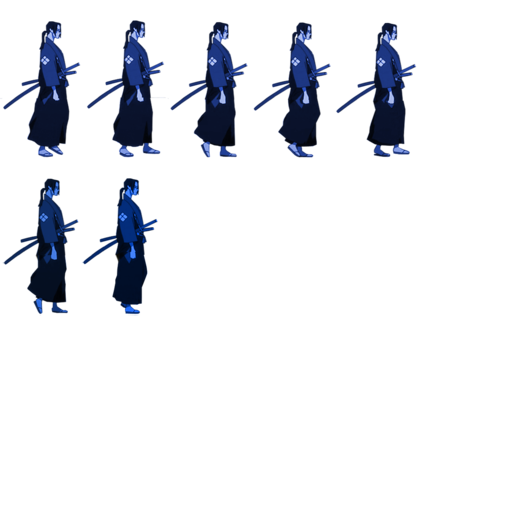
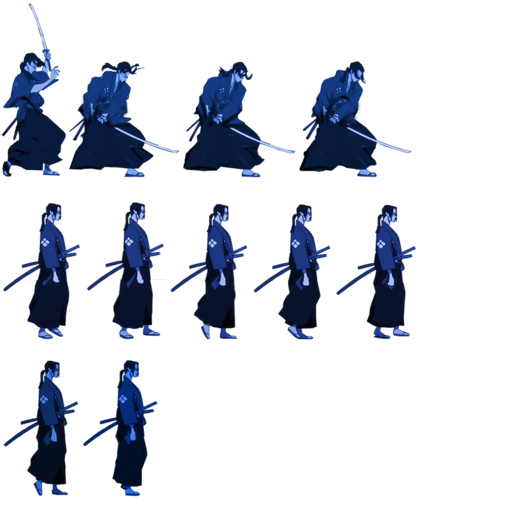
animations, still no collisions

diff --git a/LPOO2/core/src/com/mygdx/game/sprites/Samurai.java b/LPOO2/core/src/com/mygdx/game/sprites/Samurai.java
@@ -1,33 +1,116 @@
 package com.mygdx.game.sprites;
 
+import java.util.ArrayList;
+
+import com.badlogic.gdx.Gdx;
+import com.badlogic.gdx.Input;
+import com.badlogic.gdx.graphics.Texture;
+import com.badlogic.gdx.graphics.g2d.Animation;
 import com.badlogic.gdx.graphics.g2d.Sprite;
 import com.badlogic.gdx.graphics.g2d.TextureRegion;
+import com.badlogic.gdx.math.Vector2;
 import com.badlogic.gdx.physics.box2d.Body;
 import com.badlogic.gdx.physics.box2d.BodyDef;
 import com.badlogic.gdx.physics.box2d.CircleShape;
+import com.badlogic.gdx.physics.box2d.EdgeShape;
+import com.badlogic.gdx.physics.box2d.Fixture;
 import com.badlogic.gdx.physics.box2d.FixtureDef;
 import com.badlogic.gdx.physics.box2d.World;
+import com.badlogic.gdx.utils.Array;
 import com.mygdx.game.MyGdxGame;
 import com.mygdx.game.screens.PlayScreen;
 
 public class Samurai extends Sprite{
+	public enum State{WALKING, STANDING, ATTACKING};
+	public State currentState;
+	public State previousState;
 	public World world;
 	public Body b2body;
 	private TextureRegion standing;
+	private Animation samuraiWalk;
+	private Animation samuraiAttack;
+	private float stateTimer;
+	private boolean walkingRight;
 	
 	public Samurai(World world, PlayScreen screen){
 		super(screen.getAtlas().findRegion("samurai_walk"));
 		this.world = world;
+		currentState = State.STANDING;
+		previousState = State.STANDING;
+		stateTimer = 0;
+		walkingRight = true;
+		
+		Array<TextureRegion> frames = new Array<TextureRegion>();
+		frames.add(new TextureRegion(getTexture(), 170, 190, 78, 155));
+		frames.add(new TextureRegion(getTexture(), 253, 190, 78, 155));
+		frames.add(new TextureRegion(getTexture(), 336, 190, 78, 155));
+		frames.add(new TextureRegion(getTexture(), 0, 190, 78, 155));
+		samuraiWalk = new Animation(0.1f, frames);
+		frames.clear();
+		
+		frames.add(new TextureRegion(getTexture(), 0, 5, 63, 160));
+		frames.add(new TextureRegion(getTexture(), 65, 5, 110, 160));
+		frames.add(new TextureRegion(getTexture(), 182, 5, 110, 160));
+		frames.add(new TextureRegion(getTexture(), 298, 5, 110, 160));
+		samuraiAttack = new Animation(0.1f, frames);
+		frames.clear();
+
+
+
+
+		
 		defineSamurai();
-		standing = new TextureRegion(getTexture(), 0, 0, 85, 145);
+		standing = new TextureRegion(getTexture(), 92, 183, 78, 157);
 		setBounds(0,0,85/MyGdxGame.PPM, 145/MyGdxGame.PPM);
 		setRegion(standing);
 	}
 	
 	public void update(float dt){
 		setPosition(b2body.getPosition().x - getWidth()/2, b2body.getPosition().y-getHeight()/8);
+		setRegion(getFrame(dt));
 	}
 	
+	public TextureRegion getFrame(float dt) {
+		currentState = getState();
+		
+		TextureRegion region;
+		switch(currentState){
+		case WALKING:
+			region = (TextureRegion) samuraiWalk.getKeyFrame(stateTimer, true);
+			break;
+		case ATTACKING:
+			region = (TextureRegion) samuraiAttack.getKeyFrame(stateTimer);
+			break;
+		case STANDING:
+		default:
+			region = standing;
+			break;
+		}
+		
+		if((b2body.getLinearVelocity().x < 0 || !walkingRight) && !region.isFlipX()){
+			region.flip(true, false);
+			walkingRight = false;
+		}
+		else if((b2body.getLinearVelocity().x > 0 || walkingRight) && region.isFlipX()){
+			region.flip(true, false);
+			walkingRight = true;
+		}
+		
+		stateTimer = currentState == previousState ? stateTimer +dt : 0;
+		previousState = currentState;
+		return region;
+		
+	}
+
+	public State getState() {
+		if(b2body.getLinearVelocity().x != 0)
+			return State.WALKING;
+		else if(Gdx.input.isButtonPressed(Input.Buttons.LEFT))
+			return State.ATTACKING;
+		else
+			return State.STANDING;
+	}
+
 	public void defineSamurai(){
 		BodyDef bdef  = new BodyDef();
 		bdef.position.set(50/MyGdxGame.PPM, 150/MyGdxGame.PPM);
@@ -40,6 +123,26 @@ public class Samurai extends Sprite{
 		
 		fdef.shape = shape;
 		b2body.createFixture(fdef);
+	
+		
+	}
+	
+	public void attacks() {
+		FixtureDef fdef = new FixtureDef();
+		EdgeShape katana = new EdgeShape();
+		katana.set(new Vector2(70/MyGdxGame.PPM, -50/MyGdxGame.PPM), new Vector2(70/MyGdxGame.PPM, 50/MyGdxGame.PPM));
+		fdef.shape = katana;
+		fdef.isSensor = true;
+		
+		
+		b2body.createFixture(fdef).setUserData("katana");
+		
+	}
+	
+	public void endsAttack() {
+		Array<Fixture> fixtures = b2body.getFixtureList();
+		Fixture bodyFixture = fixtures.get(1);
+		b2body.destroyFixture(bodyFixture);
 		
 	}
 }

diff --git a/LPOO2/core/src/com/mygdx/game/screens/PlayScreen.java b/LPOO2/core/src/com/mygdx/game/screens/PlayScreen.java
@@ -1,4 +1,6 @@
 package com.mygdx.game.screens;
+import java.util.concurrent.TimeUnit;
+
 import com.badlogic.gdx.Gdx;
 import com.badlogic.gdx.Input;
 import com.badlogic.gdx.Screen;
@@ -18,6 +20,7 @@ import com.badlogic.gdx.utils.viewport.Viewport;
 import com.mygdx.game.MyGdxGame;
 import com.mygdx.game.sprites.Samurai;
 import com.mygdx.game.tools.B2WorldCreator;
+import com.mygdx.game.tools.WorldContactListener;
 
 public class PlayScreen implements Screen{
 	
@@ -54,6 +57,8 @@ public class PlayScreen implements Screen{
 		
 		character = new Samurai(world,this);
 		
+		world.setContactListener(new WorldContactListener());
+		
 	}
 	
 	public TextureAtlas getAtlas(){
@@ -66,14 +71,18 @@ public class PlayScreen implements Screen{
 		
 	}
 	
-	public void handleInput(float dt){
+	public void handleInput(float dt) {
 		if(Gdx.input.isKeyJustPressed(Input.Keys.W))
 			character.b2body.applyLinearImpulse(new Vector2(0, 4f), character.b2body.getWorldCenter(), true);
 		else if(Gdx.input.isKeyPressed(Input.Keys.D) && character.b2body.getLinearVelocity().x <= 2)
 			character.b2body.applyLinearImpulse(new Vector2(0.1f, 0), character.b2body.getWorldCenter(), true);
 		else if(Gdx.input.isKeyPressed(Input.Keys.A) && character.b2body.getLinearVelocity().x >= -2)
 			character.b2body.applyLinearImpulse(new Vector2(-0.1f, 0), character.b2body.getWorldCenter(), true);	
-				
+		else if(Gdx.input.isButtonPressed(Input.Buttons.LEFT))
+			character.attacks();
+		/*else if(Gdx.input.isButtonPressed(Input.Buttons.RIGHT))
+			character.endsAttack();*/
+			
 	}
 	
 	public void update(float dt){

diff --git a/LPOO2/core/src/com/mygdx/game/tools/WorldContactListener.java b/LPOO2/core/src/com/mygdx/game/tools/WorldContactListener.java
@@ -1,0 +1,34 @@
+package com.mygdx.game.tools;
+
+import com.badlogic.gdx.Gdx;
+import com.badlogic.gdx.physics.box2d.Contact;
+import com.badlogic.gdx.physics.box2d.ContactImpulse;
+import com.badlogic.gdx.physics.box2d.ContactListener;
+import com.badlogic.gdx.physics.box2d.Manifold;
+
+public class WorldContactListener implements ContactListener{
+
+	@Override
+	public void beginContact(Contact contact) {
+		Gdx.app.log("Begin Contact", "");
+	}
+
+	@Override
+	public void endContact(Contact contact) {
+		Gdx.app.log("End Contact", "");
+		
+	}
+
+	@Override
+	public void preSolve(Contact contact, Manifold oldManifold) {
+		// TODO Auto-generated method stub
+		
+	}
+
+	@Override
+	public void postSolve(Contact contact, ContactImpulse impulse) {
+		// TODO Auto-generated method stub
+		
+	}
+	
+}
